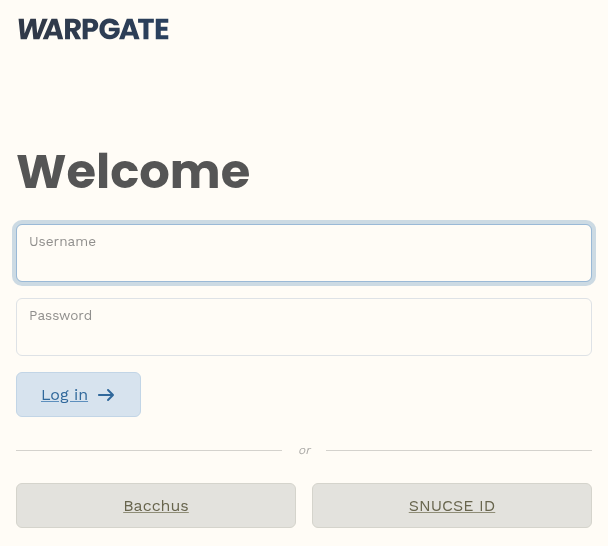
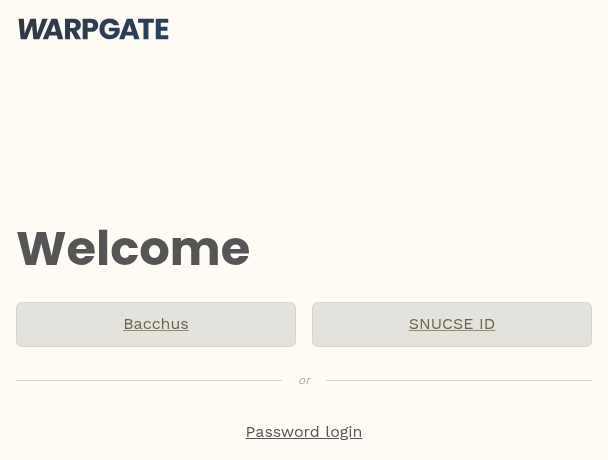
docs: no passwords, and the folded login form
SNUCSE Cloud has no password of its own: the login page now shows the
SNUCSE ID and Bacchus buttons with the administrators' password form
folded away, and a password set on the SSH gateway's profile page is
not used anywhere. New screenshots of both login pages.

diff --git a/snucse/docs/ko/src/access.md b/snucse/docs/ko/src/access.md
@@ -8,7 +8,7 @@
 $ ssh -p 2222 <SNUCSE ID 유저명>:<인스턴스 이름>@cloud.snucse.org
 ```
 
-처음 접속하면 터미널에 로그인 링크가 나옵니다. 그 링크를 브라우저로 열고 **SNUCSE ID**를 눌러 로그인하면 접속이 이어집니다(Username·Password 칸은 쓰지 않습니다).
+처음 접속하면 터미널에 로그인 링크가 나옵니다. 그 링크를 브라우저로 열고 **SNUCSE ID**를 눌러 로그인하면 접속이 이어집니다.
 
 ![접속 게이트웨이의 로그인 화면: SNUCSE ID 버튼](images/warpgate-login.png)
 
@@ -43,6 +43,8 @@ $ scp data.tar.gz my-vm:
 2. <https://login.cloud.snucse.org/@warpgate#/profile/credentials>를 열고 **SNUCSE ID**를 눌러 로그인합니다(로그인 뒤 오른쪽 위의 유저명 → **Credentials**로도 갑니다). **Public keys**의 **Add key**를 누릅니다.
 
    ![접속 게이트웨이의 Credentials 페이지](images/warpgate-credentials.png)
+
+   같은 페이지의 Password는 정해도 쓰이지 않습니다. 접속 게이트웨이의 로그인은 SNUCSE ID로만 합니다.
 
    Label에 이름(예: 노트북)을, 아래 칸에 `~/.ssh/id_ed25519.pub`의 내용(`ssh-ed25519 AAAA… 이름`)을 붙여 넣고 **Save**를 누릅니다.
 

diff --git a/snucse/docs/ko/src/account.md b/snucse/docs/ko/src/account.md
@@ -10,12 +10,12 @@
 ## 로그인
 
 1. <https://cloud.snucse.org>에 접속합니다.
-2. 아래쪽의 **SNUCSE ID로 로그인** 버튼을 누릅니다. 위의 아이디·비밀번호 칸은 관리용이라 쓰지 않습니다.
+2. 로고 아래의 **SNUCSE ID로 로그인** 버튼을 누릅니다. 맨 아래 "관리자 로그인"은 운영진용입니다.
 3. SNUCSE ID에 로그인하고, 처음 한 번 뜨는 권한 요청을 승인합니다.
 
-![SNUCSE Cloud 로그인 화면: 아래쪽의 SNUCSE ID로 로그인 버튼](images/login.png)
+![SNUCSE Cloud 로그인 화면: SNUCSE ID로 로그인 버튼](images/login.png)
 
-첫 로그인에서 계정이 자동으로 만들어집니다. 계정 이름은 SNUCSE ID 유저명과 같습니다.
+첫 로그인에서 계정이 자동으로 만들어집니다. 계정 이름은 SNUCSE ID 유저명과 같습니다. SNUCSE Cloud에는 따로 비밀번호가 없고, 언제나 SNUCSE ID로 로그인합니다.
 
 "아직 사용할 수 없는 계정입니다"라는 화면이 나오면 아직 이용 대상 그룹에 없는 것입니다. 주전공 인증을 마친 뒤 다시 로그인해 주세요.
 
